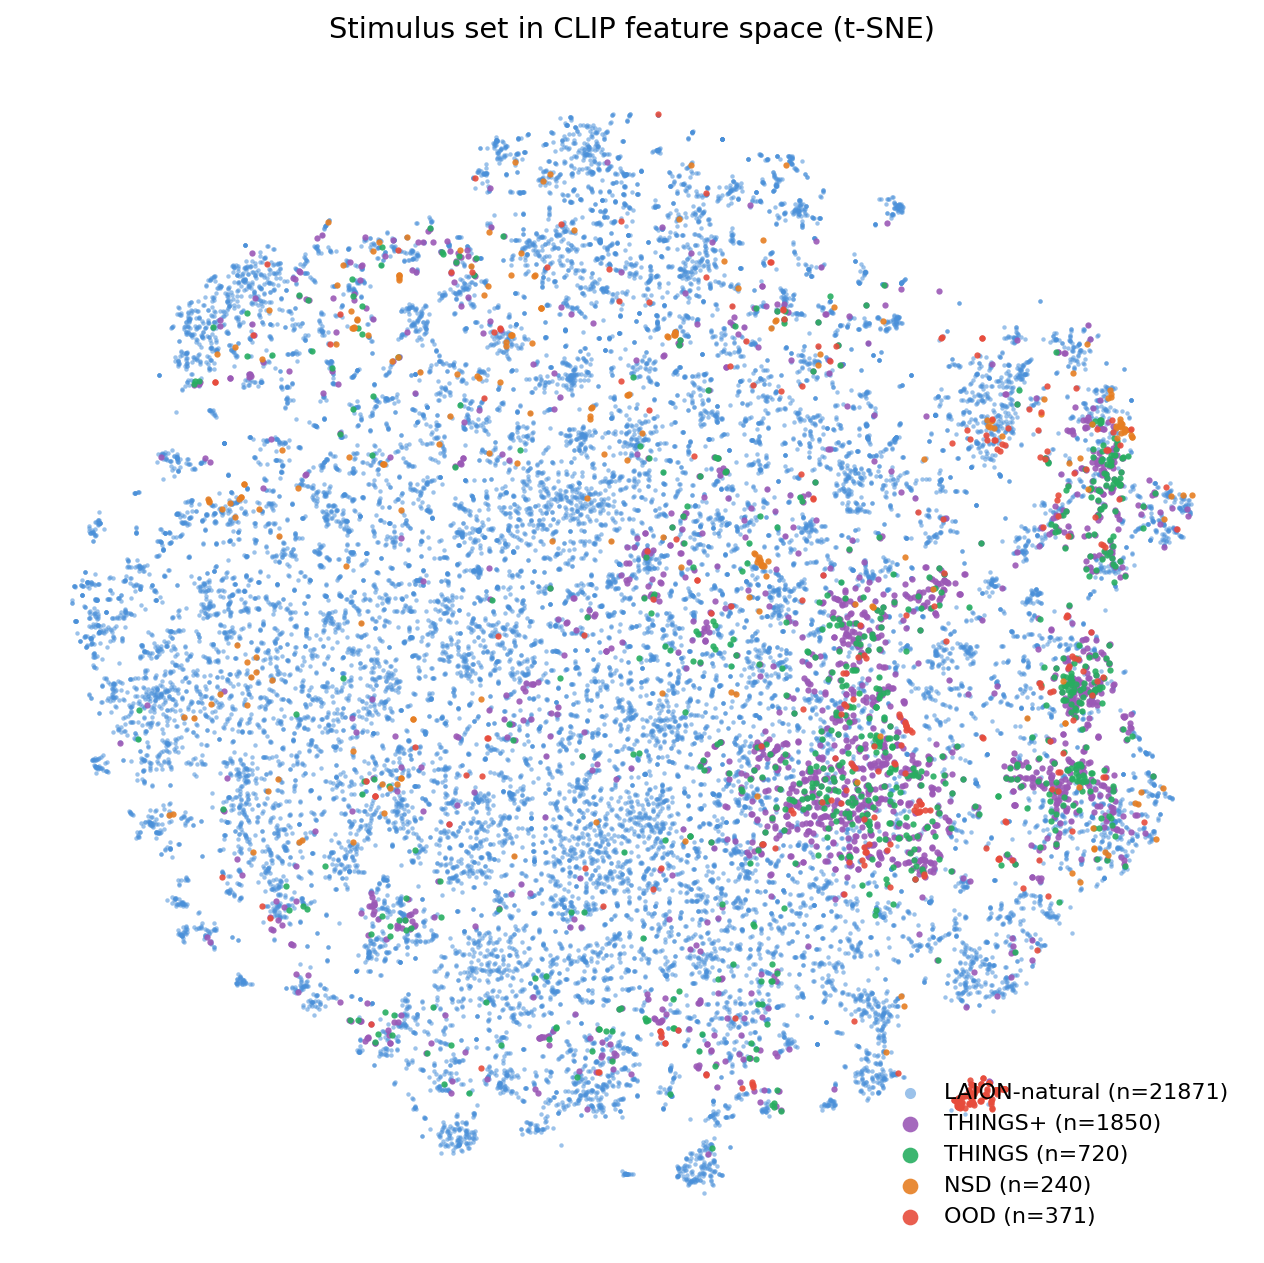
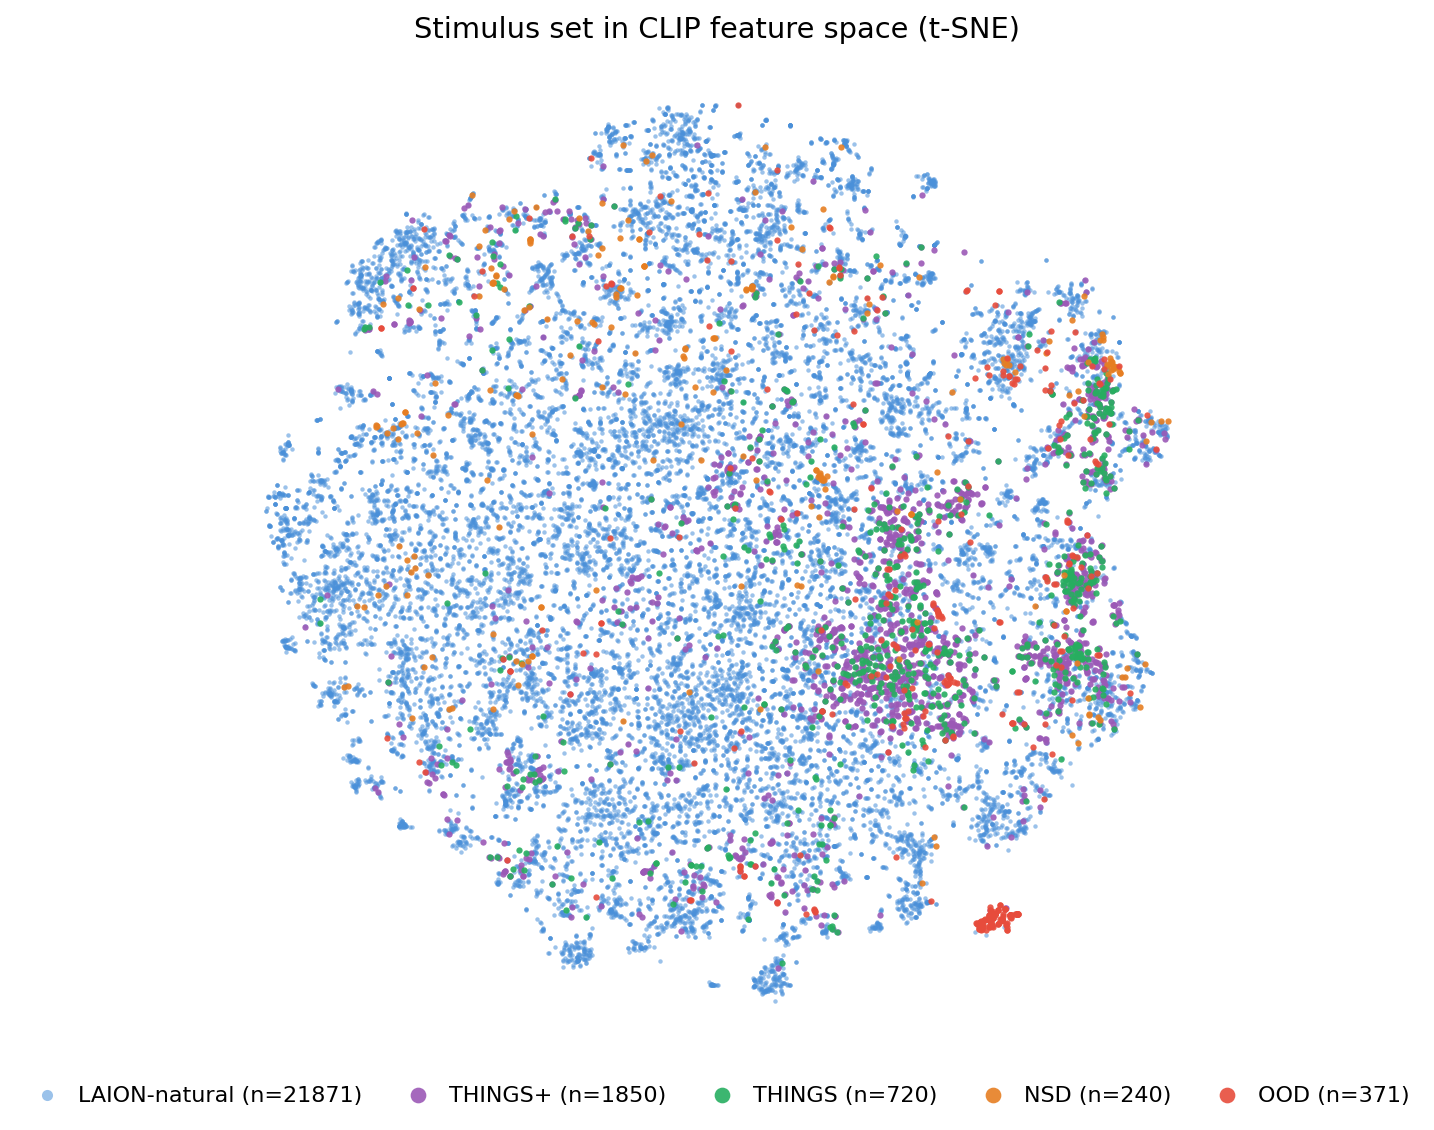
docs(stimuli): move t-SNE legend below the plot so OOD stays visible
The previous in-axes legend at "lower right" overlapped the OOD
cluster, which clusters in the lower-right corner of the t-SNE
projection. Move it to a single horizontal row below the axes so it
can't occlude any data.

diff --git a/docs/scripts/make_stimuli_tsne.py b/docs/scripts/make_stimuli_tsne.py
@@ -104,14 +104,26 @@ def main() -> None:
         "Stimulus set in CLIP feature space (t-SNE)",
         fontsize=13, pad=10,
     )
-    ax.legend(
-        loc="lower right", frameon=False, fontsize=10,
-        markerscale=2.5, handletextpad=0.5,
+    # Legend below the plot so it cannot overlap any data points (the OOD
+    # cluster in the lower-right corner is the worst offender when the
+    # legend lives inside the axes).
+    legend = ax.legend(
+        loc="upper center",
+        bbox_to_anchor=(0.5, -0.02),
+        ncol=5,
+        frameon=False,
+        fontsize=10,
+        markerscale=2.5,
+        handletextpad=0.4,
+        columnspacing=1.5,
     )
 
-    fig.tight_layout()
     OUT_PATH.parent.mkdir(parents=True, exist_ok=True)
-    fig.savefig(OUT_PATH, dpi=160, bbox_inches="tight")
+    fig.savefig(
+        OUT_PATH, dpi=160,
+        bbox_inches="tight",
+        bbox_extra_artists=(legend,),
+    )
     print(f"Wrote {OUT_PATH}")
 
 
